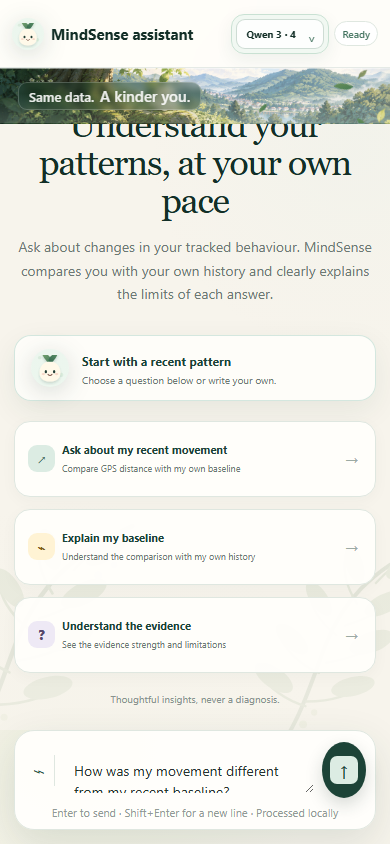
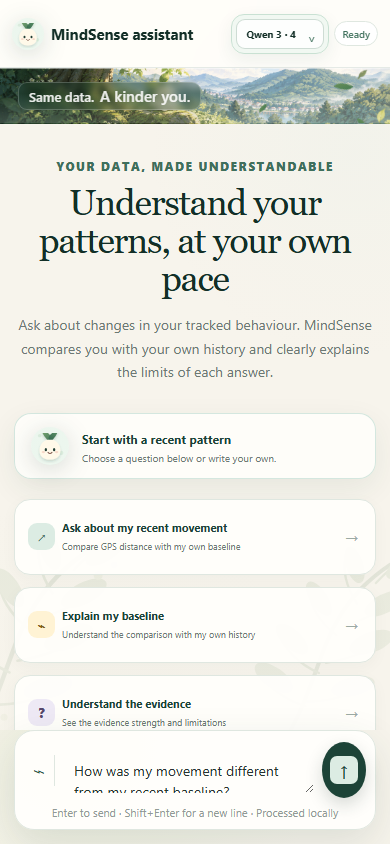
Keep the welcome state scrolled to the top on short screens
The scroll-to-latest-message effect also ran on an empty conversation, so
on a phone the taller welcome state opened scrolled to its end and its
heading sat under the banner. An empty conversation now scrolls to the top
instead. Mobile after-screenshots retaken.

diff --git a/frontend/src/features/chat/NormalResponse.tsx b/frontend/src/features/chat/NormalResponse.tsx
@@ -142,6 +142,12 @@ export function NormalResponse() {
   }, [applyModelCatalog])
 
   useEffect(() => {
+    // An empty conversation shows the welcome state, which should be read from
+    // the top rather than scrolled to its end (on short screens that hid the heading).
+    if (turns.length === 0 && !pendingQuestion && !requestFailure) {
+      conversationEnd.current?.parentElement?.scrollTo?.({ top: 0 })
+      return
+    }
     conversationEnd.current?.scrollIntoView?.({ behavior: 'smooth', block: 'end' })
   }, [pendingQuestion, requestFailure, turns])
 

diff --git a/frontend/src/features/chat/NormalResponse.test.tsx b/frontend/src/features/chat/NormalResponse.test.tsx
@@ -98,6 +98,16 @@ describe('NormalResponse', () => {
     expect(banner).toHaveTextContent('A kinder you.')
   })
 
+  it('keeps the welcome state scrolled to the top instead of jumping to its end', () => {
+    const scrollIntoView = vi.fn()
+    Element.prototype.scrollIntoView = scrollIntoView
+
+    render(<NormalResponse />)
+
+    expect(scrollIntoView).not.toHaveBeenCalled()
+    delete (Element.prototype as Partial<Element>).scrollIntoView
+  })
+
   it('shows only the implemented chat section in the sidebar', () => {
     render(<NormalResponse />)
 
